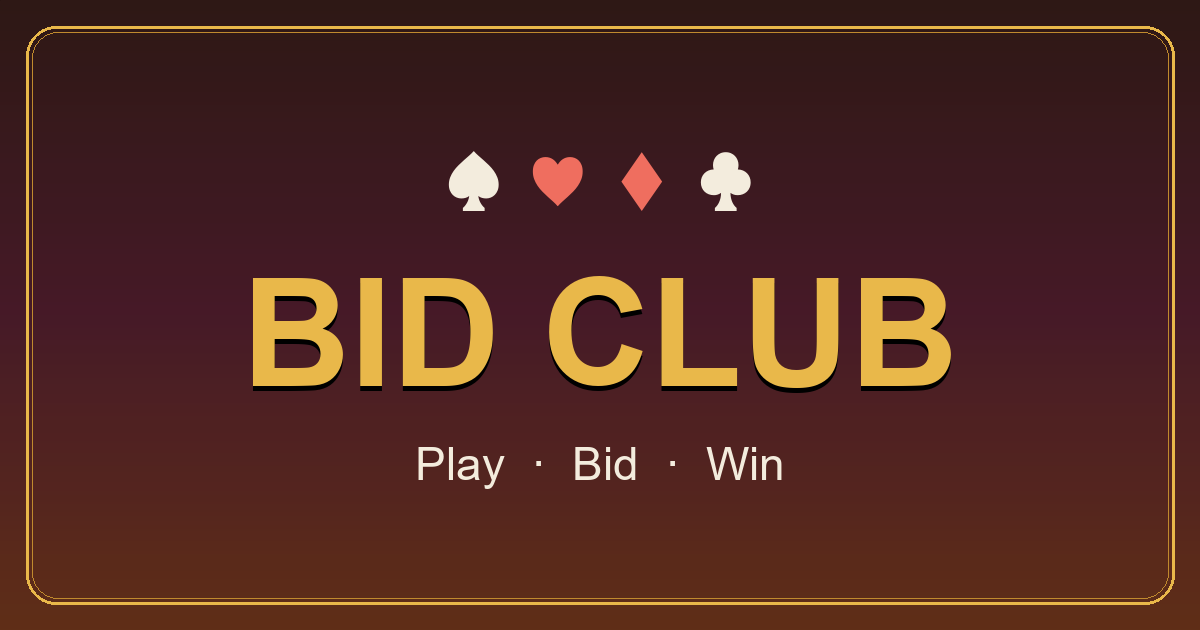
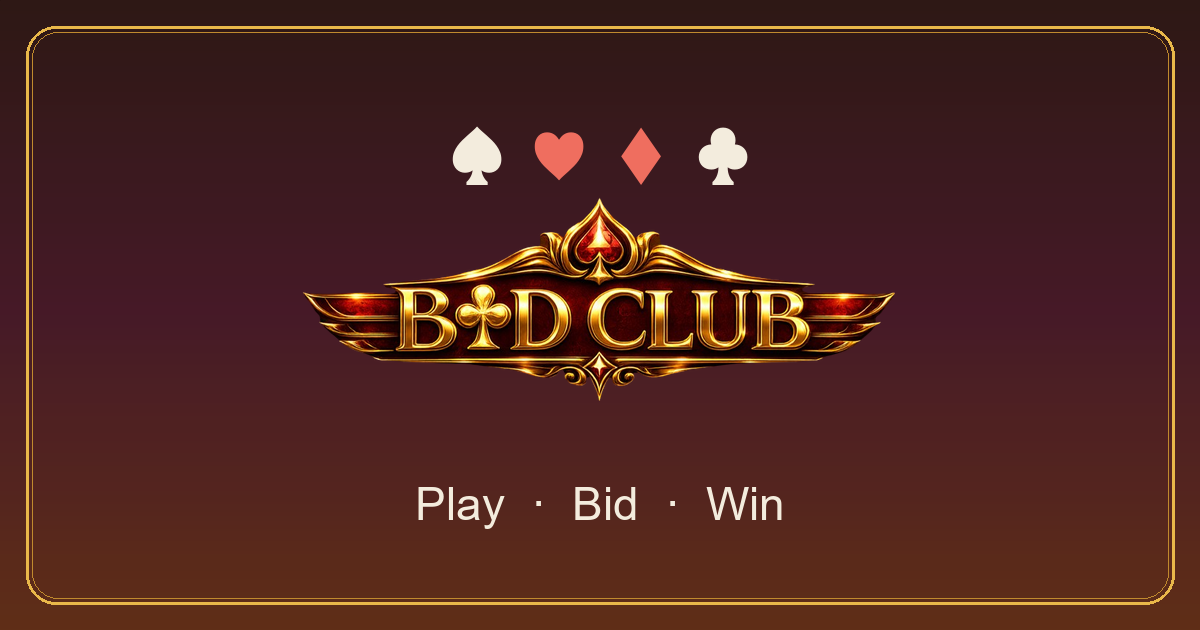
Fix mobile game layout (centered table, bigger cards, header, chips), SEO fixes and Leave button feature

diff --git a/client/src/index.css b/client/src/index.css
@@ -77,6 +77,7 @@ body {
   color: var(--cream); font-weight: 700; font-size: 0.9rem;
   padding: 6px 14px; border-radius: 8px; cursor: pointer;
   transition: background 0.15s, color 0.15s;
+  text-decoration: none;
 }
 .app-header__link:hover { background: rgba(233,184,74,0.14); color: var(--gold); }
 
@@ -221,6 +222,12 @@ body {
 .home-actions { display: flex; gap: 16px; width: 100%; }
 .home-actions .btn { flex: 1; padding: 18px 14px; font-size: 1.2rem; border-radius: 16px; }
 
+/* ─── Homepage SEO blurb ──────────────────────────────────────────────────── */
+.home-seo { max-width: 540px; margin: 20px auto 0; text-align: center; color: var(--cream-muted); font-size: 0.95rem; line-height: 1.65; }
+.home-seo__link { color: var(--gold); font-weight: 700; text-decoration: none; }
+.guide-home-cta { margin-top: 22px; padding-top: 16px; border-top: 1px solid rgba(233,184,74,0.18); line-height: 1.7; color: var(--cream); }
+.home-seo__link:hover { color: #f0c96a; }
+
 /* ─── Icon button (copy) ──────────────────────────────────────────────────── */
 .icon-btn {
   display: inline-flex; align-items: center; justify-content: center;
@@ -358,6 +365,7 @@ body {
 /* ─── Round chip (inside the felt-badges row) ─────────────────────────────── */
 .round-chip {
   display: inline-flex; align-items: center; gap: 6px;
+  white-space: nowrap; flex-shrink: 0;
   background: rgba(0,0,0,0.4);
   color: var(--gold);
   border: 1px solid rgba(233,184,74,0.55);
@@ -370,6 +378,7 @@ body {
 /* ─── Trump chip (beside the round chip) ──────────────────────────────────── */
 .trump-chip {
   display: inline-flex; align-items: center; gap: 6px;
+  white-space: nowrap; flex-shrink: 0;
   background: rgba(0,0,0,0.4);
   color: var(--cream);
   border: 1px solid rgba(233,184,74,0.4);
@@ -391,7 +400,8 @@ body {
   text-align: center; white-space: nowrap;
   text-shadow: 0 1px 3px rgba(0,0,0,0.55);
 }
-.trick-status--urgent { color: #FF5A4E; text-shadow: 0 1px 4px rgba(0,0,0,0.65); }
+@keyframes statusTick { 0%, 49.9% { color: #FF5A4E; } 50%, 100% { color: #fff; } }
+.trick-status--urgent { animation: statusTick 2s steps(1) infinite; text-shadow: 0 1px 4px rgba(0,0,0,0.65); }
 
 /* ─── Player chip (dark-wine card) ────────────────────────────────────────── */
 .player-chip {
@@ -640,20 +650,44 @@ body {
 }
 @media (max-width: 600px) {
   .scoreboard-overlay__panel { padding: 18px 14px 16px; }
-  :root { --card-w: 54px; }
-  .trick-area { min-height: 150px; }
-  .trick-felt { min-height: 120px; padding: 22px 14px; }
-  .hand-cards .card { margin-left: -20px; }
+  :root { --card-w: 72px; }
+
+  /* Header: scale down so brand + nav fit narrow screens on one row */
+  .app-header__logo { height: 46px; }
+  .app-header__nav { gap: 4px; }
+  .app-header__link { font-size: 0.8rem; padding: 5px 9px; }
+
+  /* Trick table: capped height, VERTICALLY CENTERED in the available space.
+     (The middle row keeps flex:1 and centers the fixed-height table.) */
+  .table-middle-row { align-items: center; }
+  .trick-area {
+    flex: 0 0 auto;
+    height: 42vh; max-height: 42vh; min-height: 0;
+    width: 100%;
+  }
+
+  /* Shorter felt: shrink padding + watermark so it isn't crowded */
+  .trick-felt { padding: 14px 10px; min-height: 0; }
+  .felt-watermark__title { font-size: clamp(1.6rem, 9vw, 2.8rem); }
+
+  /* Round + Trump: one line, natural size (no wrap), wide-enough container */
+  .felt-badges { flex-wrap: nowrap; gap: 8px; max-width: none; }
+  .round-chip, .trump-chip { font-size: 0.85rem; padding: 5px 12px; }
+
+  /* Reclaim vertical space around the felt */
+  .player-chip { min-width: 70px; padding: 5px 10px; }
+  .table-top-row { gap: 8px; padding: 4px; }
+  .my-strip { gap: 10px; }
+
+  /* Bigger hand cards with retuned overlap (7 cards fit ~340px) */
+  .hand-cards .card { margin-left: -32px; }
 }
 @media (max-width: 480px) {
-  :root { --card-w: 60px; }
+  :root { --card-w: 76px; }
+  .app-header__logo { height: 42px; }
   .bid-btn { width: 40px; height: 40px; font-size: 1rem; }
-  .jhatpat-title { font-size: 3.2rem; }
   .home-actions .btn { padding: 15px 10px; font-size: 1.05rem; }
   .trick-area { border-radius: 60px; padding: 10px; }
-  .trick-felt { border-radius: 50px; padding: 34px 18px; }
-  .trick-felt { min-height: 108px; padding: 16px 10px; }
-  .hand-cards .card { margin-left: -26px; }
-  .felt-badges { gap: 6px; }
-  .trump-chip, .round-chip { font-size: 0.8rem; padding: 4px 10px; }
+  .trick-felt { border-radius: 50px; }
+  .hand-cards .card { margin-left: -38px; }
 }

diff --git a/client/src/components/Header.tsx b/client/src/components/Header.tsx
@@ -1,9 +1,16 @@
-import { useState } from 'react';
-import { useNavigate } from 'react-router-dom';
+import { useState, lazy, Suspense } from 'react';
+import { useNavigate, Link } from 'react-router-dom';
 import { useGameStore } from '../store/gameStore';
-import { GuideContent } from '../pages/GuidePage';
 import { Scoreboard } from './Scoreboard';
-import logo from '../assets/logo.png';
+
+// Lazy so the (bilingual) guide content isn't in the initial bundle — loaded
+// only when the in-game overlay opens. The /guide route lazy-loads it too.
+const GuideContent = lazy(() =>
+  import('../pages/GuidePage').then((m) => ({ default: m.GuideContent }))
+);
+import { sendMsg } from '../net/socket';
+import { storage } from '../storage';
+import logo from '../assets/logo.webp';
 
 export function Header() {
   const navigate = useNavigate();
@@ -17,6 +24,14 @@ export function Header() {
   const [guideOpen, setGuideOpen] = useState(false);
   const [scoreboardOpen, setScoreboardOpen] = useState(false);
 
+  const handleLeave = () => {
+    if (!window.confirm('Leave the game? You will return to the home screen.')) return;
+    sendMsg({ type: 'leaveRoom' });
+    storage.clearSession();
+    useGameStore.getState().reset();
+    navigate('/');
+  };
+
   return (
     <>
       <header className="app-header">
@@ -25,21 +40,29 @@ export function Header() {
         </span>
         <nav className="app-header__nav">
           {!inGame && (
-            <button className="app-header__link" onClick={() => navigate('/')}>
+            <Link className="app-header__link" to="/">
               Home
-            </button>
+            </Link>
           )}
           {inGame && (
             <button className="app-header__link" onClick={() => setScoreboardOpen(true)}>
               Scoreboard
             </button>
           )}
-          <button
-            className="app-header__link"
-            onClick={() => (inGame ? setGuideOpen(true) : navigate('/guide'))}
-          >
-            Guide
-          </button>
+          {inGame && (
+            <button className="app-header__link" onClick={handleLeave}>
+              Leave
+            </button>
+          )}
+          {inGame ? (
+            <button className="app-header__link" onClick={() => setGuideOpen(true)}>
+              Guide
+            </button>
+          ) : (
+            <Link className="app-header__link" to="/guide">
+              Guide
+            </Link>
+          )}
         </nav>
       </header>
 
@@ -73,7 +96,9 @@ export function Header() {
               ✕
             </button>
             <p className="guide-overlay__note">The game keeps running while you read.</p>
-            <GuideContent />
+            <Suspense fallback={<p className="guide-overlay__note">Loading…</p>}>
+              <GuideContent />
+            </Suspense>
           </div>
         </div>
       )}

diff --git a/client/src/pages/WinnerPage.tsx b/client/src/pages/WinnerPage.tsx
@@ -1,6 +1,5 @@
 import { useEffect } from 'react';
 import { useNavigate } from 'react-router-dom';
-import confetti from 'canvas-confetti';
 import { useGameStore } from '../store/gameStore';
 import { storage } from '../storage';
 import { sendMsg } from '../net/socket';
@@ -18,15 +17,17 @@ export function WinnerPage() {
 
     // Party-popper: one blast from each top corner, then natural gravity fall.
     // Both sides use the exact same color mix — no left/right color separation.
-    const colors = ['#E9B84A', '#43A047', '#C0392B', '#FBF6E9'];
-    const common = { particleCount: 140, spread: 55, startVelocity: 60, gravity: 1, scalar: 1.1, ticks: 220, colors };
-    // Top
-    confetti({ ...common, angle: 270, spread: 60, startVelocity: 32, origin: { x: 0.2, y: 0 } });  // top-left edge, falling
-    confetti({ ...common, angle: 270, spread: 60, startVelocity: 32, origin: { x: 0.8, y: 0 } });  // top-right edge, falling
+    import('canvas-confetti').then(({ default: confetti }) => {
+      const colors = ['#E9B84A', '#43A047', '#C0392B', '#FBF6E9'];
+      const common = { particleCount: 140, spread: 55, startVelocity: 60, gravity: 1, scalar: 1.1, ticks: 220, colors };
+      // Top
+      confetti({ ...common, angle: 270, spread: 60, startVelocity: 32, origin: { x: 0.2, y: 0 } });  // top-left edge, falling
+      confetti({ ...common, angle: 270, spread: 60, startVelocity: 32, origin: { x: 0.8, y: 0 } });  // top-right edge, falling
 
-    // Bottom
-    confetti({ ...common, angle: 45, origin: { x: 0, y: 1 } }); // bottom-left
-    confetti({ ...common, angle: 135, origin: { x: 1, y: 1 } }); // bottom-right
+      // Bottom
+      confetti({ ...common, angle: 45, origin: { x: 0, y: 1 } }); // bottom-left
+      confetti({ ...common, angle: 135, origin: { x: 1, y: 1 } }); // bottom-right
+    });
   }, [hasWinners]);
 
   if (!gameOver) return <div className="page"><p>Loading…</p></div>;

diff --git a/client/src/App.tsx b/client/src/App.tsx
@@ -1,10 +1,11 @@
+import { lazy, Suspense } from 'react';
 import { Routes, Route, Navigate } from 'react-router-dom';
 import { useGameStore } from './store/gameStore';
 import { HomePage } from './pages/HomePage';
 import { LobbyPage } from './pages/LobbyPage';
 import { GamePage } from './pages/GamePage';
-import { WinnerPage } from './pages/WinnerPage';
-import { GuidePage } from './pages/GuidePage';
+const GuidePage = lazy(() => import('./pages/GuidePage').then(m => ({ default: m.GuidePage })));
+const WinnerPage = lazy(() => import('./pages/WinnerPage').then(m => ({ default: m.WinnerPage })));
 import { Header } from './components/Header';
 import { ErrorToast } from './components/ErrorToast';
 import { ConnectionBanner } from './components/ConnectionBanner';
@@ -18,12 +19,14 @@ export default function App() {
       <ErrorToast />
       <Header />
       <main className="app-main">
-        <Routes>
-          <Route path="/" element={<HomePage />} />
-          <Route path="/guide" element={<GuidePage />} />
-          <Route path="/room/:roomId" element={<RoomRouter phase={phase} hasGameOver={!!gameOver} />} />
-          <Route path="*" element={<Navigate to="/" replace />} />
-        </Routes>
+        <Suspense fallback={<div className="page"><p>Loading…</p></div>}>
+          <Routes>
+            <Route path="/" element={<HomePage />} />
+            <Route path="/guide" element={<GuidePage />} />
+            <Route path="/room/:roomId" element={<RoomRouter phase={phase} hasGameOver={!!gameOver} />} />
+            <Route path="*" element={<Navigate to="/" replace />} />
+          </Routes>
+        </Suspense>
       </main>
     </div>
   );

diff --git a/client/src/pages/HomePage.tsx b/client/src/pages/HomePage.tsx
@@ -1,5 +1,5 @@
 import { useEffect, useState } from 'react';
-import { useNavigate } from 'react-router-dom';
+import { useNavigate, Link } from 'react-router-dom';
 import { sendMsg } from '../net/socket';
 import { useGameStore } from '../store/gameStore';
 import { storage } from '../storage';
@@ -82,6 +82,16 @@ export function HomePage() {
             <button className="btn btn--primary" onClick={() => setMode('create')}>Start</button>
             <button className="btn btn--secondary" onClick={() => setMode('join')}>Join Room</button>
           </div>
+          <section className="home-seo">
+            <p>
+              Bid Club is a real-time multiplayer trick-taking card game. Spin up a room,
+              share the link, and gather two to seven friends. Each round you predict exactly
+              how many tricks you&rsquo;ll take, then play to hit your number. Miss it and you
+              lose the points. Seven rounds, a shifting trump, one winner.{' '}
+              New here? The <Link className="home-seo__link" to="/guide">Guide</Link> covers
+              every rule and how scoring works.
+            </p>
+          </section>
         </div>
       ) : (
         <div className="panel flex-col gap-lg" style={{ maxWidth: 400, width: '100%' }}>

diff --git a/client/index.html b/client/index.html
@@ -39,6 +39,29 @@
     />
     <meta name="author" content="Bid Club" />
     <meta property="og:locale" content="en_US" />
+    <script type="application/ld+json">
+      {
+        "@context": "https://schema.org",
+        "@graph": [
+          {
+            "@type": "WebApplication",
+            "name": "Bid Club",
+            "url": "https://bidclub.onrender.com/",
+            "description": "Play an online multiplayer trick-taking prediction card game with friends. Create a room, invite players, place your bids, and compete in real time.",
+            "applicationCategory": "GameApplication",
+            "operatingSystem": "Any",
+            "browserRequirements": "Requires a modern web browser with JavaScript enabled",
+            "offers": { "@type": "Offer", "price": "0", "priceCurrency": "USD" }
+          },
+          {
+            "@type": "Organization",
+            "name": "Bid Club",
+            "url": "https://bidclub.onrender.com/",
+            "logo": "https://bidclub.onrender.com/og-image.png"
+          }
+        ]
+      }
+    </script>
   </head>
   <body>
     <div id="root"></div>

diff --git a/client/src/pages/GuidePage.tsx b/client/src/pages/GuidePage.tsx
@@ -1,5 +1,5 @@
 import { useState } from 'react';
-import { useNavigate } from 'react-router-dom';
+import { useNavigate, Link } from 'react-router-dom';
 
 type Lang = 'en' | 'hi';
 
@@ -266,7 +266,7 @@ const PAGE_TITLE: Record<Lang, string> = {
   hi: 'Kaise Khele · Bid Club',
 };
 
-export function GuideContent() {
+export function GuideContent({ showHomeLink = false }: { showHomeLink?: boolean }) {
   const [lang, setLang] = useState<Lang>('en');
   const sections = SECTIONS[lang];
 
@@ -303,6 +303,12 @@ export function GuideContent() {
               {body}
             </section>
           ))}
+          {showHomeLink && (
+            <p className="guide-home-cta">
+              Ready to play? Head back to the{' '}
+              <Link className="home-seo__link" to="/">Home</Link> page to create or join a room.
+            </p>
+          )}
         </article>
       </div>
     </>
@@ -320,7 +326,7 @@ export function GuidePage() {
       >
         Go Back
       </button>
-      <GuideContent />
+      <GuideContent showHomeLink />
     </div>
   );
 }

diff --git a/client/src/pages/LobbyPage.tsx b/client/src/pages/LobbyPage.tsx
@@ -16,8 +16,10 @@ export function LobbyPage() {
       // No session: redirect to home with the room code (and host) pre-filled.
       // We store the intent in sessionStorage.
       const host = new URLSearchParams(window.location.search).get('host');
-      sessionStorage.setItem('pendingRoomId', urlRoomId);
-      sessionStorage.setItem('pendingHost', host ?? '');
+      if (host) {
+        sessionStorage.setItem('pendingRoomId', urlRoomId);
+        sessionStorage.setItem('pendingHost', host);
+      }
       navigate('/', { replace: true });
     }
   }, [roomId, urlRoomId, connected, navigate]);

diff --git a/server/src/room.ts b/server/src/room.ts
@@ -169,6 +169,14 @@ export class Room {
     const seat = this.getSeat(playerId);
     if (!seat) return;
 
+    // In-game leave: treat as a permanent disconnect so seat/turn/bid indices stay
+    // intact (the seat auto-plays to the end; host leaving ends the game). Hard seat
+    // removal mid-round would corrupt game state.
+    if (this.phase !== 'LOBBY' && this.phase !== 'GAME_OVER') {
+      this.disconnect(playerId);
+      return;
+    }
+
     if (seat.reconnectTimer) {
       clearTimeout(seat.reconnectTimer);
       seat.reconnectTimer = null;

diff --git a/client/src/pages/GamePage.tsx b/client/src/pages/GamePage.tsx
@@ -40,7 +40,7 @@ export function GamePage() {
   useEffect(() => {
     setUrgent(false);
     if ((phase === 'BIDDING' || phase === 'PLAYING') && currentTurn) {
-      const lead = Math.max(0, turnTimeoutMs - 5000);
+      const lead = Math.max(0, turnTimeoutMs - 6000);
       const id = setTimeout(() => setUrgent(true), lead);
       return () => clearTimeout(id);
     }
